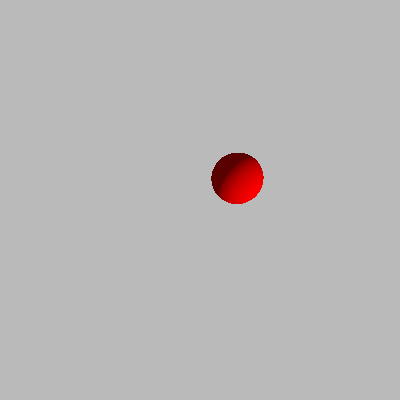
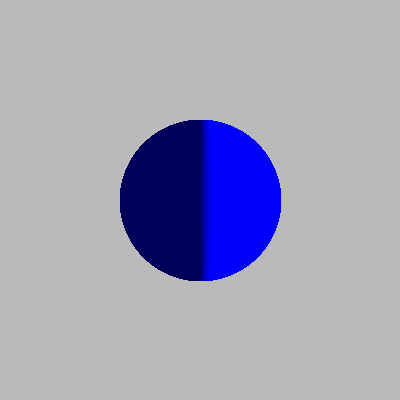
Bearbeitung-3.3

Changed region(s): [[0.3, 0.3, 0.72, 0.72]]

diff --git a/src/cgg/a02/Kugelgruppe.java b/src/cgg/a02/Kugelgruppe.java
@@ -1,11 +1,15 @@
 package cgg.a02;
 
+import static tools.Color.black;
+import static tools.Color.blue;
 import static tools.Color.gray;
 import static tools.Functions.add;
 import static tools.Functions.dot;
 import static tools.Functions.multiply;
 import static tools.Functions.normalize;
+import static tools.Functions.subtract;
 import static tools.Functions.vec3;
+import static tools.Functions.color;
 
 import java.util.ArrayList;
 import java.util.Random;
@@ -14,12 +18,21 @@ import tools.*;
 
 public class Kugelgruppe implements Sampler{
     private ArrayList<Kugel> kugeln;
+    private ArrayList<Lichtquelle> licht;
 
     public Kugelgruppe(int anzahlKugel, ArrayList<Lichtquelle> licht) {
         kugeln = new ArrayList<Kugel>();
         for(int i = 0; i < anzahlKugel; i++) {
-            kugeln.add(new Kugel(new Vec3(getRandomZahl(80)-40,getRandomZahl(80)-40,getRandomZahl(60)-100), getRandomZahl(10) +4));
+            Vec3 mitteKugel = new Vec3(getRandomZahl(80)-40,getRandomZahl(80)-40,getRandomZahl(60)-100);
+            kugeln.add(new Kugel(mitteKugel, getRandomZahl(10) +4, getRandomColor()));
         }
+    }
+
+    public Kugelgruppe(ArrayList<Lichtquelle> licht) {
+        this.licht = licht;
+        kugeln = new ArrayList<Kugel>();
+        Vec3 mitteBild = new Vec3(0, 0, -80);
+        kugeln.add(new Kugel(mitteBild, 30, blue));
     }
 
     /**
@@ -39,33 +52,37 @@ public class Kugelgruppe implements Sampler{
                     treffer = h;
             }
         }
-        if(treffer.getT() != 300) {
+        if(treffer.getT() != 300) { //300 ist bei Initialisierung
             //Vec3 n0 = treffer.getNormalenVektor();  //Farbe mit Normalenvektor von Hit
             //return new Color(n0.u(), n0.v(), n0.w());
-            return shade(treffer); //Farbe mit angezeigter Methode
+            for(int j = 0; j < licht.size(); j++) {
+                return shade(treffer, licht.get(j));
+            }
             //return treffer.getfarbeOberflaeche();
         }
         
         return gray; //Standardhintergrundfarbe bei keinem Treffer
     }
-
     
     /**
-     * berechnet Schattierung fuer gegebenen Treffer
+     * berechnet Schattierung fuer gegebenen Treffer mit Phong Methode
      * 
      * @param hit der Trefferpunkt
      * @return Farbe fuer diesen Punkt
      */
-    public static Color shade(Hit hit) {
-        Vec3 lightDir = normalize(vec3(1, 1, 0.7));
-        Color ambient = multiply(0.1, hit.getfarbeOberflaeche());
+    public static Color shade(Hit hit, Lichtquelle lichtquelle) {
+        //ist Berechnung richtig??
+        Vec3 lightDir = lichtquelle.richtungLichtquelle(hit.getTrefferPunkt());
+        Color intensitaet = lichtquelle.intensitaet(hit.getTrefferPunkt());
+        Color ambient = multiply(0.1, hit.getfarbeOberflaeche()); //kd ist 0.1, ambienter Rueckstrahlwert der Oberflaeche
+        //Color ambient = multiply(0.1, intensitaet);
+        //System.out.println(intensitaet + ", " + hit.getfarbeOberflaeche());
         Color diffuse = multiply(0.9 * Math.max(0, dot(lightDir, hit.getNormalenVektor())), hit.getfarbeOberflaeche());
-        //Color spiegeln = null;
+        //Color diffuse = multiply(kd, dot(lightDir, hit.getNormalenVektor()));
+        //Color spiegeln = 
+        //System.out.println(ambient + ", " + diffuse + ", " + add(ambient, diffuse));
         return add(ambient, diffuse);
-        //bei diffuse Lichtquelle aendern, aus der Liste nehmen
     }
-
-
 
     /**
      * erzeugt eine zufaellige Zahl
@@ -77,6 +94,19 @@ public class Kugelgruppe implements Sampler{
         Random random = new Random();
         int zahl = random.nextInt(maximum);
         return zahl;
+    }
+
+    /**
+     * erzeugt mit zufaelligen Zahlen eine Farbe
+     * 
+     * @return zufaellige Farbe
+     */
+    public Color getRandomColor(){
+        Random random = new Random();
+        double r = random.nextDouble();
+        double g = random.nextDouble();
+        double b = random.nextDouble();
+        return new Color(r,g,b);
     }
 
 }

diff --git a/src/cgg/a02/Kugel.java b/src/cgg/a02/Kugel.java
@@ -2,16 +2,17 @@ package cgg.a02;
 
 import tools.*;
 
-import static tools.Color.red;
 import static tools.Functions.*;
 
 public class Kugel {
     private Vec3 mittelpunkt;
     private double radius;
+    private Color farbe;
 
-    public Kugel(Vec3 mittelpunkt, double radius){
+    public Kugel(Vec3 mittelpunkt, double radius, Color farbe){
         this.mittelpunkt = mittelpunkt;
         this.radius = radius;
+        this.farbe = farbe;
     }
 
     /**
@@ -29,8 +30,8 @@ public class Kugel {
         double t1 = (-b + Math.sqrt(b* b - 4 * a * c))/(2 * a); //ABC-Formel mit +
         double t2 = (-b - Math.sqrt(b* b - 4 * a * c))/(2 * a); //ABC-Formel mit -
 
-        Hit hit = new Hit(t1, r.gibStrahlPunkt(t1), divide(subtract(r.gibStrahlPunkt(t1), mittelpunkt),radius) , red); //Trefferpunkt fuer t1 berechnen
-        Hit hit2 = new Hit(t2, r.gibStrahlPunkt(t2), divide(subtract(r.gibStrahlPunkt(t2), mittelpunkt),radius) , red);
+        Hit hit = new Hit(t1, r.gibStrahlPunkt(t1), divide(subtract(r.gibStrahlPunkt(t1), mittelpunkt),radius) , farbe); //Trefferpunkt fuer t1 berechnen
+        Hit hit2 = new Hit(t2, r.gibStrahlPunkt(t2), divide(subtract(r.gibStrahlPunkt(t2), mittelpunkt),radius) , farbe);
         if(b* b - 4 * a * c < 0) { //Wurzel ist negativ, keine Loesung
             return null;
         }
@@ -50,5 +51,12 @@ public class Kugel {
         else {
             return hit2;
         }
+    }
+
+    /**
+     * @return gibt die Farbe zurück
+     */
+    public Color getFarbe() {
+        return farbe;
     }
 }

diff --git a/src/cgg/a02/Main.java b/src/cgg/a02/Main.java
@@ -1,5 +1,9 @@
 package cgg.a02;
 
+import static tools.Color.blue;
+import static tools.Color.red;
+import static tools.Functions.add;
+
 import java.util.ArrayList;
 
 import cgg.Image;
@@ -14,16 +18,19 @@ public class Main {
 
     // This class instance defines the contents of the image.
     ArrayList<Lichtquelle> licht = new ArrayList<>();
-    licht.add(new Punktlichtquelle(new Vec3(1,6,1)));
-    Kugelgruppe kugeln = new Kugelgruppe(1, licht);
+    licht.add(new Richtungslichtquelle(new Vec3(10,0,0), blue));
+    Kugelgruppe kugeln = new Kugelgruppe(licht);
 
     // Creates an image and iterates over all pixel positions inside the image.
     var image = new Image(width, height);
+    Color blau = new Color(0,0,1);
     for (int x = 0; x != width; x++)
       for (int y = 0; y != height; y++)
         // Sets the color for one particular pixel.
         image.setPixel(x,y,kugeln.getColor(new Vec2(x, y)));
-
+        //image.setPixel(x, y, blau);
+        //System.out.println(blau);
+        //blau = add(blau, new Color(0, 0, 0.1));}
     // Write the image to disk.
     image.writePng("a03-spheres");
   }

diff --git a/src/cgg/a02/MainTest.java b/src/cgg/a02/MainTest.java
@@ -1,5 +1,6 @@
 package cgg.a02;
 
+import static tools.Color.black;
 import static tools.Functions.*;
 
 public class MainTest {
@@ -7,6 +8,7 @@ public class MainTest {
         testAufgabe2_3();
     }
 
+    @SuppressWarnings("unused")
     private static void testAufgabe2_2() {
         Lochkamera cam = new Lochkamera(Math.PI/2,10 , 10);
         System.out.println(cam.gibStrahl(0, 0));
@@ -15,9 +17,9 @@ public class MainTest {
     }
 
     private static void testAufgabe2_3() {
-        var s1 = new Kugel(vec3(0, 0, -2), 1);
-        var s2 = new Kugel(vec3(0, -1, -2), 1);
-        var s3 = new Kugel(vec3(0, 0, 0), 1);
+        var s1 = new Kugel(vec3(0, 0, -2), 1, black);
+        var s2 = new Kugel(vec3(0, -1, -2), 1, black);
+        var s3 = new Kugel(vec3(0, 0, 0), 1, black);
         var r1 = new Ray(vec3(0, 0, 0), vec3(0, 0, -1), 0, 100);
         var r2 = new Ray(vec3(0, 0, 0), vec3(0, 1, -1), 0, 100);
         System.out.println(s1.intersect(r1));

diff --git a/src/cgg/a02/Punktlichtquelle.java b/src/cgg/a02/Punktlichtquelle.java
@@ -1,12 +1,14 @@
 package cgg.a02;
 
+import static tools.Functions.divide;
+import static tools.Functions.length;
 import static tools.Functions.normalize;
 import static tools.Functions.subtract;
 
 import tools.Color;
 import tools.Vec3;
 
-public record Punktlichtquelle(Vec3 punktLichtquelle) implements Lichtquelle {
+public record Punktlichtquelle(Vec3 punktLichtquelle, Color farbe) implements Lichtquelle {
 
     /**
      * @return Richtung zur Lichtquelle als Vec3
@@ -17,7 +19,8 @@ public record Punktlichtquelle(Vec3 punktLichtquelle) implements Lichtquelle {
     }
 
     public Color intensitaet(Vec3 x) {
-        return null;    //???
+        double zahl = length(subtract(punktLichtquelle, x));
+        return divide(farbe,zahl*zahl);
     }
 
 }

diff --git a/src/cgg/a02/Richtungslichtquelle.java b/src/cgg/a02/Richtungslichtquelle.java
@@ -1,10 +1,8 @@
 package cgg.a02;
 
-import static tools.Functions.color;
-
 import tools.*;
 
-public record Richtungslichtquelle(Vec3 richtungS, Color farbe) implements Lichtquelle{
+public record Richtungslichtquelle(Vec3 richtungS, Color farbe) implements Lichtquelle {
 
     /**
      * @return Richtung zur Lichtquelle als Vec3
@@ -14,7 +12,7 @@ public record Richtungslichtquelle(Vec3 richtungS, Color farbe) implements Licht
     }
 
     public Color intensitaet(Vec3 x) {
-        return color(x); //???
+        return farbe;
     }
 
 }

diff --git a/src/cgg/a02/Hit.java b/src/cgg/a02/Hit.java
@@ -33,6 +33,13 @@ public class Hit {
     }
 
     /**
+     * @return Trefferpunkt als Vec3
+     */
+    public Vec3 getTrefferPunkt(){
+        return trefferPunkt;
+    }
+
+    /**
      * @return Farbe von dem Trefferpunkt
      */
     public Color getfarbeOberflaeche(){
